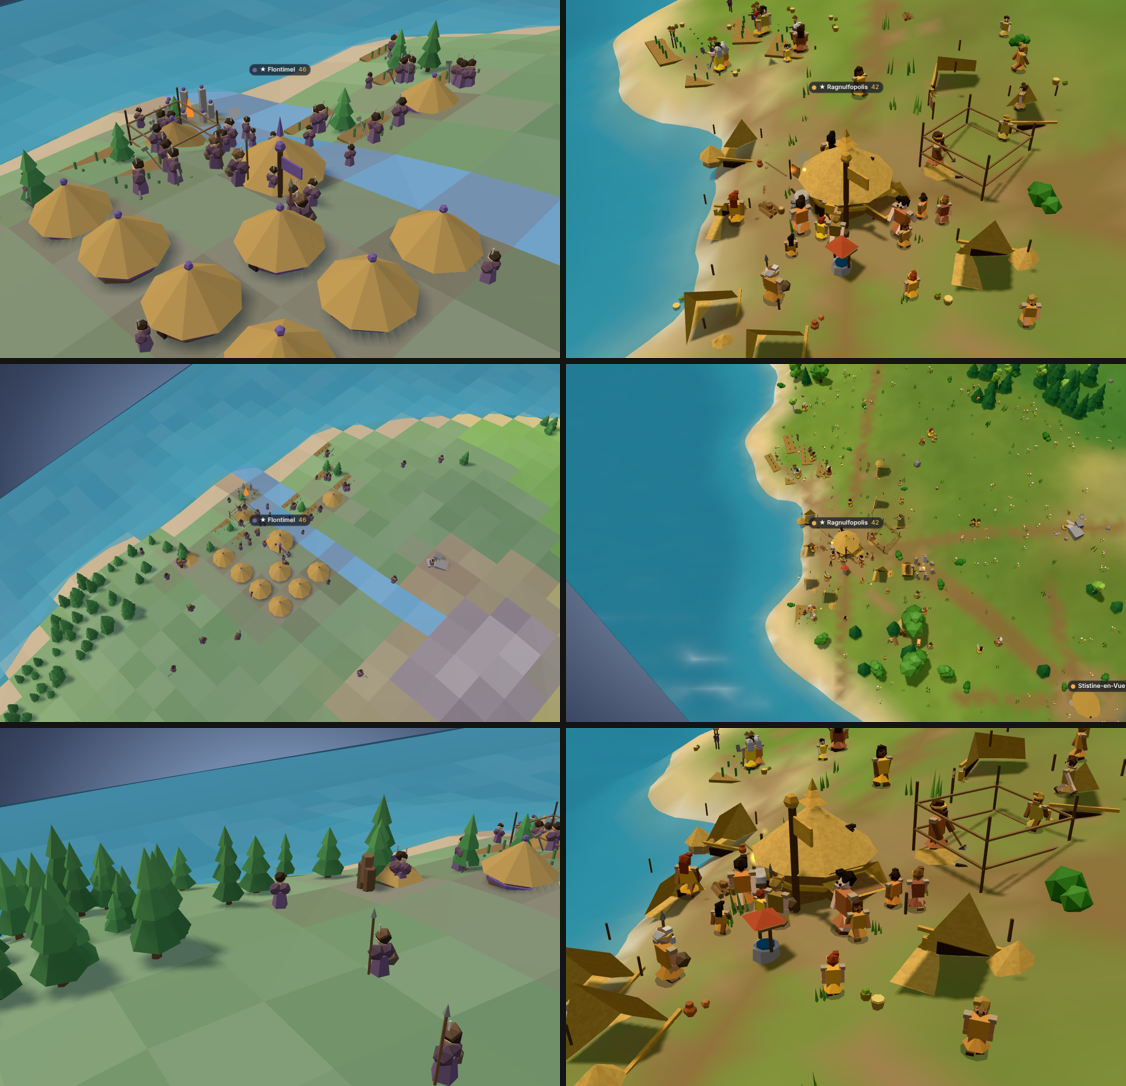
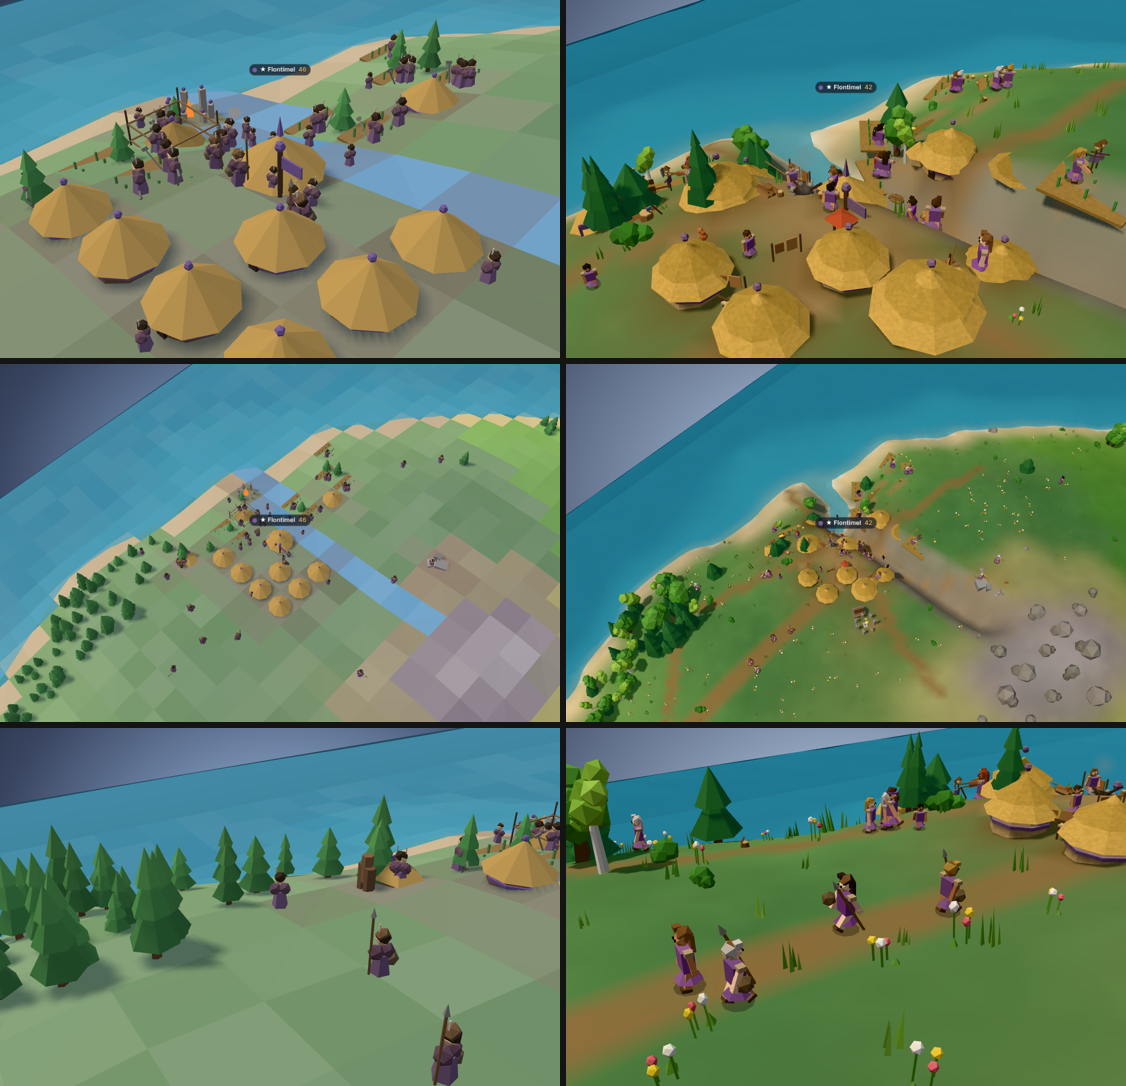
V3 : camps compacts autour du foyer, terre battue, vêtements contrastés, captures mises à jour
Claude-Session: https://claude.ai/code/session_01TgHL2FWxq41pav8uWD2fyT

diff --git a/god-is-bored/src/sim/CivilizationSystem.ts b/god-is-bored/src/sim/CivilizationSystem.ts
@@ -264,11 +264,16 @@ export class CivilizationSystem {
         else {
           // maison : en façade de rue, serrée vers la place, dans un quartier d'habitat
           s = Math.abs(info.dStreet - 1.15) * 2.0 + (info.dStreet > 2.6 ? 3 : 0) + info.r * 0.5 + mismatch + (hash2(x, y, 12) - 0.5) * 0.5;
+          if (civ.era === 0) {
+            // camp : cercle serré autour du foyer, entrées tournées vers lui (les rues ne comptent presque pas)
+            s = Math.abs(info.dStreet - 1.15) * 0.5 + (info.dStreet > 3.2 ? 1.5 : 0) + mismatch * 0.3 + (hash2(x, y, 12) - 0.5) * 0.5;
+            rot = Math.atan2(city.x + 0.5 - (x + 0.5), city.y + 0.5 - (y + 0.5)) + (hash2(x, y, 6) - 0.5) * 0.35;
+          }
           // les villages anciens sont plus aérés : on évite de coller les huttes
           if (civ.era <= 1) {
             // campement : les huttes se serrent autour du foyer (anneaux successifs), sans se toucher
             let adj = 0; for (let dy = -1; dy <= 1; dy++) for (let dx = -1; dx <= 1; dx++) if ((dx || dy) && w.inb(x + dx, y + dy) && w.bld[(y + dy) * w.size + x + dx] >= 0) adj++;
-            s += adj * (civ.era === 0 ? 0.22 : 0.3) + d * (civ.era === 0 ? 0.55 : 0.2);
+            s += adj * (civ.era === 0 ? 0.18 : 0.3) + d * (civ.era === 0 ? 1.0 : 0.2);
           }
         }
         if (s < bs) { bs = s; best = { x, y, rot }; }

diff --git a/god-is-bored/src/render/models.ts b/god-is-bored/src/render/models.ts
@@ -61,7 +61,7 @@ function houseV2(era: number, st: number, v: number): [G[], G[], [number, number
       else { body.push(box(0.72 + v * 0.06, 0.18, 0.4, 0, 0, 0, C.wood), prism(0.82 + v * 0.06, 0.24, 0.48, 0, 0.18, 0, straw), box(0.1, 0.13, 0.02, -0.12, 0, 0.205, C.door), box(0.1, 0.13, 0.02, 0.18, 0, 0.205, C.door)); acc.push(box(0.04, 0.22, 0.44, 0.38 + v * 0.03, 0.04, 0, 0xffffff), box(0.04, 0.22, 0.44, -0.38 - v * 0.03, 0.04, 0, 0xffffff)); }
       if (v === 1) body.push(box(0.26, 0.02, 0.02, 0.42, 0.18, 0.1, C.dwood), cyl(0.012, 0.012, 0.2, 4, 0.34, 0, 0.1, C.dwood), cyl(0.012, 0.012, 0.2, 4, 0.5, 0, 0.1, C.dwood), box(0.16, 0.02, 0.06, 0.42, 0.14, 0.1, 0xc9b184)); // séchoir à peaux
       if (v === 2) body.push(cyl(0.14, 0.16, 0.12, 7, -0.4, 0, 0.18, wall), cone(0.2, 0.2, 7, -0.4, 0.12, 0.18, straw)); // appentis rond
-      for (const g of [...body, ...acc]) g.scale(0.9, 0.9, 0.9); // huttes lisibles à tous les zooms
+      for (const g of [...body, ...acc]) g.scale(1.0, 1.0, 1.0); // huttes lisibles à tous les zooms
       return [body, acc, smoke];
     }
     case 1: { // maisons de pierre : appareil en assises, linteaux, toit selon la culture

diff --git a/god-is-bored/tests/graphics.test.ts b/god-is-bored/tests/graphics.test.ts
@@ -66,7 +66,14 @@ describe("Urbanisme : rues, places et quartiers", () => {
         const info = streetInfo(city, h.x + 0.5, h.y + 0.5);
         if (info.dStreet <= 2.9) near++;
         let dr = Math.abs(((h.rot - faceStreet(h.x + 0.5, h.y + 0.5, info) + Math.PI * 3) % (Math.PI * 2)) - Math.PI);
-        if (dr < 0.4) facing++;
+        let ok = dr < 0.4;
+        // campements (ère 0) : les entrées regardent le foyer
+        if (!ok && h.era <= 1) {
+          const hearth = Math.atan2(city.x + 0.5 - (h.x + 0.5), city.y + 0.5 - (h.y + 0.5));
+          let dh = Math.abs(((h.rot - hearth + Math.PI * 3) % (Math.PI * 2)) - Math.PI);
+          ok = dh < 0.45;
+        }
+        if (ok) facing++;
       }
       expect(near / houses.length, `${city.name} : maisons le long des rues`).toBeGreaterThan(0.7);
       expect(facing / houses.length, `${city.name} : façades tournées vers la rue`).toBeGreaterThan(0.8);

diff --git a/god-is-bored/src/render/Infra.ts b/god-is-bored/src/render/Infra.ts
@@ -147,6 +147,8 @@ export class Infra {
         let tx = city.x + 0.5, ty = city.y + 0.5;
         if (b.type === "house" || b.type === "temple" || b.type === "market") { const info = streetInfo(city, bx, by); tx = info.px; ty = info.py; }
         const L = Math.hypot(tx - bx, ty - by);
+        // terre battue sous chaque habitation des premières ères : l'empreinte du camp se lit tout de suite
+        if (b.era <= 1 && (b.type === "house" || b.type === "hall")) paths.push({ ax: bx, ay: by, bx: bx + 0.01, by: by + 0.01, w: b.type === "hall" ? 0.85 : 0.6, col: 0x6f5636 });
         if (L < 0.45) continue;
         const nx = -(ty - by) / L, ny = (tx - bx) / L, off = (hash2(b.id, 3, 3) - 0.5) * 0.55 * Math.min(1, L / 3);
         const mx = (bx + tx) / 2 + nx * off, my = (by + ty) / 2 + ny * off;

diff --git a/god-is-bored/src/render/CitizenLayer.ts b/god-is-bored/src/render/CitizenLayer.ts
@@ -102,6 +102,8 @@ export class CitizenLayer {
       for (let k = 0; k < 8; k++) {
         const c = new THREE.Color(ERA_CLOTH[era]).lerp(this.tmp.setHex(civ.color), 0.5 + (k % 3) * 0.1);
         c.offsetHSL(((k * 37) % 11 - 5) * 0.009, ((k * 17) % 7 - 3) * 0.04, ((k * 13) % 9 - 4) * 0.032);
+        // lisibilité : aux ères du chaume et de la pierre, les vêtements restent plus sombres et plus saturés que les toits et le sol
+        if (era <= 2) { const hsl = { h: 0, s: 0, l: 0 }; c.getHSL(hsl); c.setHSL(hsl.h, Math.max(0.38, Math.min(0.75, hsl.s + 0.1)), Math.max(0.2, Math.min(0.36, hsl.l * 0.62))); }
         v.push(c);
       }
       this.variants.set(key, v);

diff --git a/god-is-bored/README.md b/god-is-bored/README.md
@@ -134,12 +134,12 @@ Rendu semi-réaliste stylisé (sans voxel ni damier) ; la simulation reste pure 
 
 Diagnostic : la V2 avait de beaux personnages mais des campements clairsemés et peu lisibles, une caméra trop rasante (beaucoup de ciel), des habitants à l'orientation aléatoire et un décor vide. La V3 garde les personnages et le terrain de la V2 et rétablit la lisibilité/densité de la version précédente. Le moteur de simulation n'est pas modifié (voir l'exception ci-dessous).
 
-- **Camp préhistorique** : huttes à l'échelle d'origine (0,9), regroupées autour du foyer, foyer commun avec sièges en rondins, séchoirs à peaux, piles de bois, paniers, pots, billot + hache près des bûcherons, tas de pierres aux carrières, paniers dans les champs. Chaque accessoire est attaché à un bâtiment réel (test dédié) ; rien n'est ajouté « pour décorer ».
+- **Camp préhistorique** : huttes à l'échelle d'origine, en cercle serré autour du foyer (entrées tournées vers lui), terre battue sous chaque habitation, vêtements plus sombres et saturés que le chaume pour rester lisibles, foyer commun avec sièges en rondins, séchoirs à peaux, piles de bois, paniers, pots, billot + hache près des bûcherons, tas de pierres aux carrières, paniers dans les champs. Chaque accessoire est attaché à un bâtiment réel (test dédié) ; rien n'est ajouté « pour décorer ».
 - **Sentiers** : chaque bâtiment réel est relié à la rue ou au foyer par un chemin de terre peint dans le sol (lignes de désir sinueuses).
 - **Personnages** : cap lissé (plus de pivotement brusque), orientation vers la tâche réelle (arbre, roche, chantier, champ) ou vers le foyer au repos, fondu de 0,22 s entre animations, nouvelles poses (frappe, bêche/cueillette, lecture, assis, combat) et outils attachés à la main : hache (bûcheron), pioche (mineur), houe/panier (cultivateur), marteau (bâtisseur), tablette (érudit). Mode et outil sont déduits de l'état et du métier **réels** (`animFor`, testé). Variantes (bandeau, barbe, châle), largeur et teintes de vêtements variables.
 - **Environnement** : forêts plus fournies (arbres plus grands, silhouettes lointaines plus lisibles), prairies fleuries par plaques, fougères en lisière, souches là où le bois peut repousser, rochers moins sombres. Les clairières restent celles de la simulation.
 - **Caméra** : cadrage automatique de l'ensemble des villes (centre + distance selon l'écran), inclinaison maximale réduite avec le zoom (moins de ciel de loin, vue rasante possible de près), cible qui suit le relief, caméra jamais sous le terrain, ciblage en glissement fluide avec inclinaison ramenée dans une plage lisible. Gestes tactiles inchangés.
 - **Lumière/matières** : ombres du soleil qui suivent la cible et le zoom (plus nettes de près, calées sur la grille de texels), grain de matière fin sur les bâtiments (bois, pierre, enduit) estompé avec la distance.
-- **Exception « simulation »** : `CivilizationSystem.findSite` (pondération du choix d'emplacement des huttes de l'ère 0/1 : rapprochées du foyer, adjacences moins pénalisées). Aucune règle, aucun compteur ni aucune sauvegarde n'est modifié ; les anciennes sauvegardes se chargent (vérifié avec une sauvegarde du commit précédent).
+- **Exception « simulation »** : `CivilizationSystem.findSite` (pondération du choix d'emplacement des huttes de l'ère 0/1 : en cercle autour du foyer, orientées vers lui). Aucune règle, aucun compteur ni aucune sauvegarde n'est modifié ; les anciennes sauvegardes se chargent (vérifié avec une sauvegarde du commit précédent).
 - **Mesures** (émulation, JS par image, scène de référence ~1660 habitants / 453 bâtiments) : desktop 2,2 ms, mobile 3,5 ms ; ~114 / 106 appels de dessin ; 323 k / 219 k triangles. Aucun test sur un vrai iPhone.
 - **Tests** : 68 (dont 20 graphiques). Captures avant/après : `docs/graphics-v3/`.
